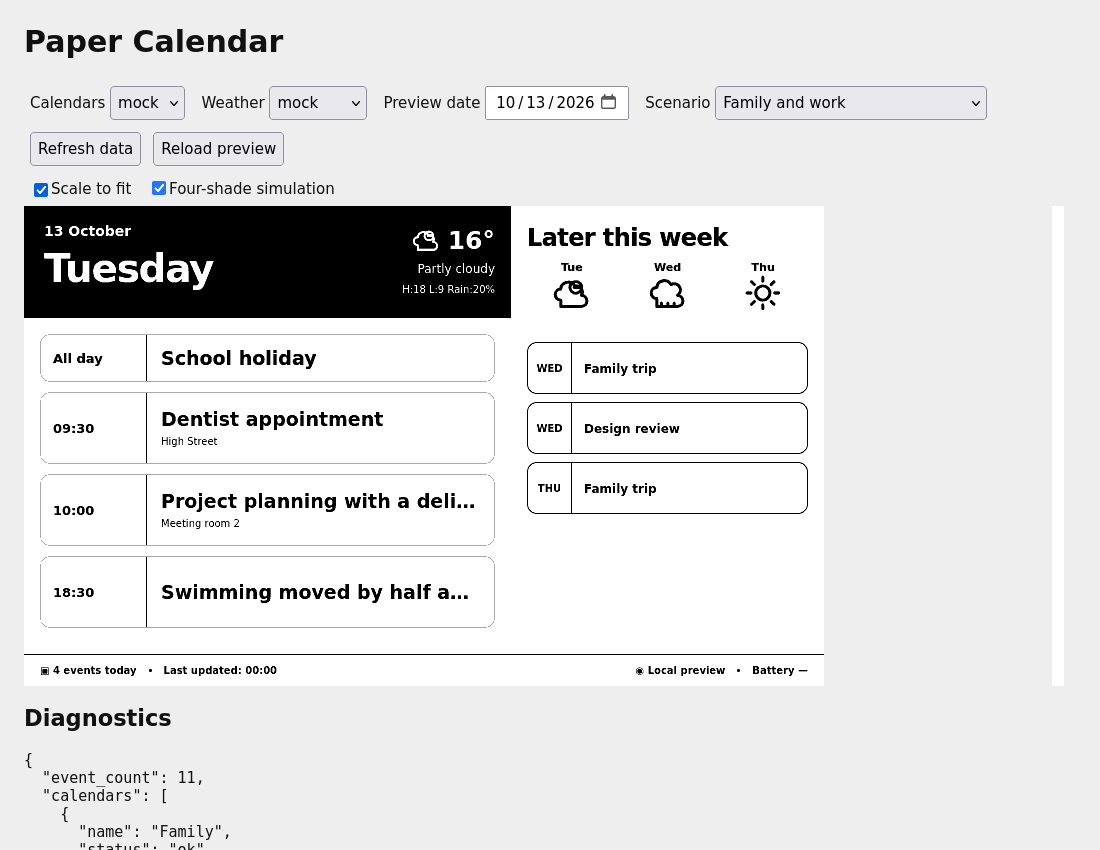
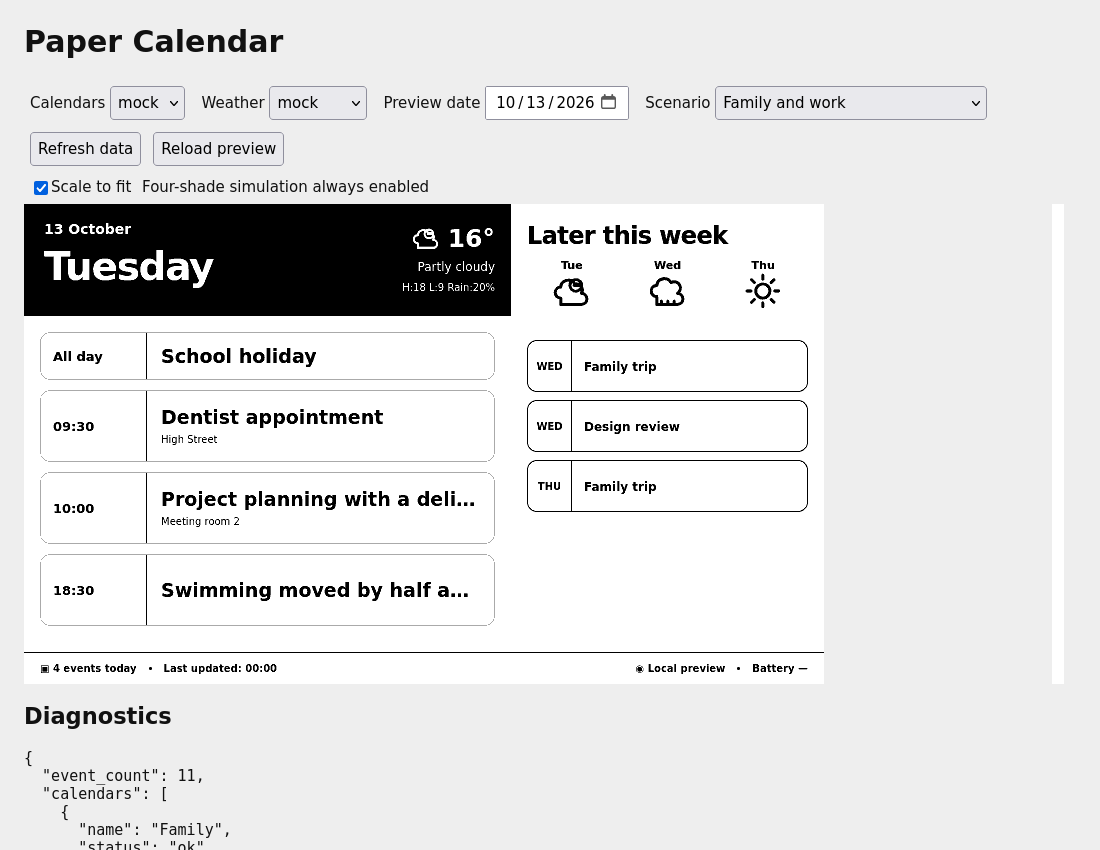
Always enable four-shade simulation in the preview dashboard

diff --git a/dev_preview/dashboard.html b/dev_preview/dashboard.html
@@ -2,7 +2,7 @@
 <html lang="en-GB"><meta charset="utf-8"><meta name="viewport" content="width=device-width">
 <title>Paper Calendar development preview</title>
 <style>
-body{font:15px system-ui;margin:24px;background:#eee;color:#111}label,button{margin:6px;display:inline-block}select,input,button{font:inherit;padding:6px}#panel{width:100%;overflow:auto}#stage{width:800px;height:480px;transform-origin:top left}iframe{width:800px;height:480px;border:0;background:white}pre{white-space:pre-wrap}#fit{vertical-align:middle}
+body{font:15px system-ui;margin:24px;background:#eee;color:#111}label,button{margin:6px;display:inline-block}select,input,button{font:inherit;padding:6px}#panel{width:100%;overflow:auto}#stage{width:800px;height:480px;transform-origin:top left}iframe{width:800px;height:480px;border:0;background:white;filter:grayscale(1) url(#four-shades)}pre{white-space:pre-wrap}#fit{vertical-align:middle}
 </style>
 <h1>Paper Calendar</h1>
 <form id="controls">
@@ -13,7 +13,7 @@ body{font:15px system-ui;margin:24px;background:#eee;color:#111}label,button{mar
 <button>Refresh data</button><button type="button" id="reload">Reload preview</button>
 </form>
 <label><input id="fit" type="checkbox" checked>Scale to fit</label>
-<label><input id="grey" type="checkbox">Four-shade simulation</label>
+<span>Four-shade simulation always enabled</span>
 <div id="panel"><div id="stage"><iframe id="screen" title="800 by 480 native TRMNL Liquid preview" sandbox="allow-same-origin"></iframe></div></div>
 <h2>Diagnostics</h2><pre id="diagnostics" aria-live="polite">Loading…</pre>
 <p>Data stays in memory. Live forecast dates follow the API clock. Mock fixtures use fixed dates; choose a matching date or DST scenario.</p>
@@ -25,7 +25,6 @@ async function refresh(event){if(event)event.preventDefault();const payload={};f
 $('controls').onsubmit=refresh;$('reload').onclick=reload;$('fit').onchange=scale;window.onresize=scale;
 $('scenario').onchange=()=>{if($('scenario').value==='spring-dst')$('selected_date').value='2026-03-29';if($('scenario').value==='autumn-dst')$('selected_date').value='2026-10-25';refresh();};
 for(const key of ['calendar_mode','weather_mode','selected_date'])$(key).onchange=refresh;
-$('grey').onchange=()=>{$('screen').style.filter=$('grey').checked?'grayscale(1) url(#four-shades)':'none';};
 scale();refresh();
 </script>
 <svg width="0" height="0" aria-hidden="true"><filter id="four-shades" color-interpolation-filters="sRGB"><feComponentTransfer><feFuncR type="discrete" tableValues="0 .333 .667 1"/><feFuncG type="discrete" tableValues="0 .333 .667 1"/><feFuncB type="discrete" tableValues="0 .333 .667 1"/></feComponentTransfer></filter></svg>

diff --git a/dev_preview/browser_test.rb b/dev_preview/browser_test.rb
@@ -75,8 +75,7 @@ begin
                        viewport: { width: 1100, height: 850 })
   driver.navigate.to('http://preview:8080/')
   wait.until { driver.find_element(id: 'diagnostics').text.include?('event_count') }
-  driver.find_element(id: 'grey').click
-  assert(driver.execute_script('return document.getElementById("screen").style.filter.includes("four-shades")'), 'Four-shade control failed')
+  assert(driver.execute_script('return getComputedStyle(document.getElementById("screen")).filter.includes("four-shades")'), 'Permanent four-shade simulation missing')
   driver.switch_to.frame(driver.find_element(id: 'screen'))
   wait.until { driver.find_elements(css: '.pc-event').length == 4 }
   driver.switch_to.default_content

diff --git a/README.md b/README.md
@@ -16,7 +16,7 @@ Open **http://localhost:8080**. Defaults are two offline fixture calendars, mock
 
 Choose calendar **mock/live**, weather **mock/live/disabled**, a preview date and a scenario. Changing controls refreshes data. **Refresh data** fetches and parses sources again. **Reload preview** renders the latest context and current Liquid without refetching. Edit `src/full.liquid`, then reload without restarting Docker. Fixtures and local calendar configuration are read on refresh. Python code changes require `docker compose restart preview`; dependency or renderer adapter changes require a rebuild.
 
-The iframe is always 800 × 480. **Scale to fit** changes its displayed size; turn it off for full size. **Four-shade simulation** quantizes the view to four greys. Physical panel fidelity has not been validated.
+The iframe is always 800 × 480. **Scale to fit** changes its displayed size; turn it off for full size. **Four-shade simulation is always enabled**, quantizing the view to four greys in both full-size and scaled views. Physical panel fidelity has not been validated.
 
 ## Fixtures and simulated dates
 

diff --git a/docs/LOCAL_PREVIEW.md b/docs/LOCAL_PREVIEW.md
@@ -21,7 +21,7 @@ The dashboard maintains one shared in-memory context; tabs share the last refres
 ## Verification and limits
 
 - Docker build/start, offline unit tests and native TRMNL lint run locally.
-- Native Firefox checks canvas, card styling, forecasts, date/DST/continuation/empty states, dashboard iframe and four-shade control.
+- Native Firefox checks canvas, card styling, forecasts, date/DST/continuation/empty states, dashboard iframe and permanent four-shade simulation.
 - Mock renders are compared byte-for-byte with the committed `docs/mock-preview.png` baseline and a repeated capture; CI uploads screenshots. Review artifacts before updating the baseline. Browser/framework upgrades can legitimately change the image.
 - Unit tests block network in mock data mode and check public DNS pinning, private destination rejection, TLS hostname preservation, redirect rejection, response bounds and timeouts.
 - Browser assets are local. Initial builds still download images, packages and official framework assets.
